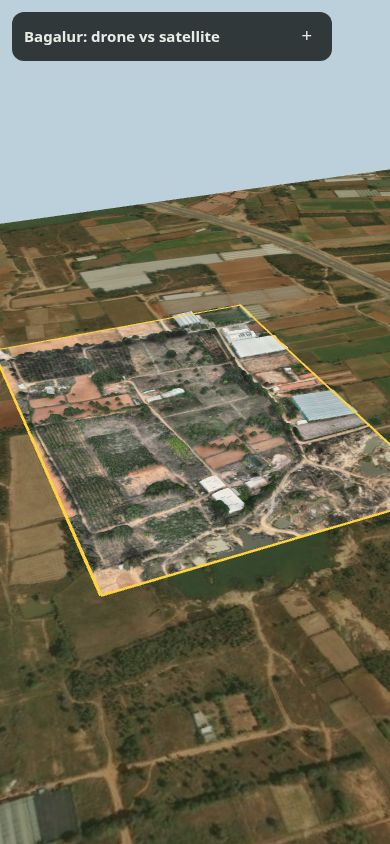
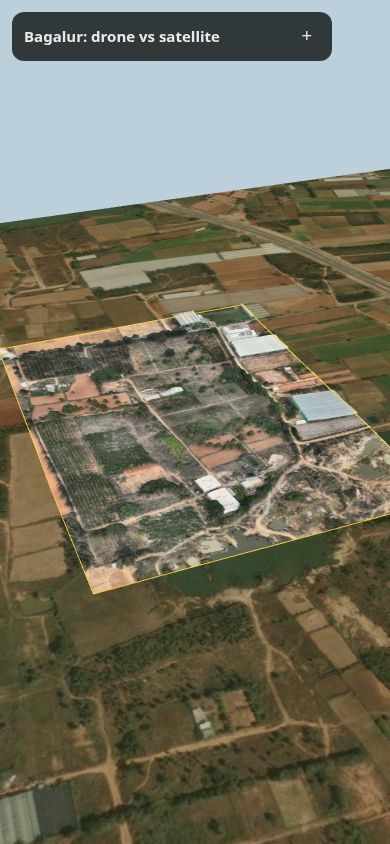
3D viewer: spline seam correction so roads meet the satellite; hairline border

diff --git a/test-data/bagalur/ai3d/web/index.html b/test-data/bagalur/ai3d/web/index.html
@@ -83,8 +83,22 @@ let mesh, geo, hts, ex = 10, sat, outline;
 const AL = await (await fetch("align.json")).json();
 const [SW, SH] = AL.sat_size, SPX = AL.sat_px_m, [DW, DH] = AL.drone_size, A = AL.A;
 // drone pixel (u,v) -> world metres (x east, z south), origin = centre of the satellite block
-const toWorld = (u, v) => [((A[0][0] * u + A[0][1] * v + A[0][2]) - SW / 2) * SPX, ((A[1][0] * u + A[1][1] * v + A[1][2]) - SH / 2) * SPX];
+const SEAM = await (await fetch("seam.json")).json();   // correction grid (satellite px) so roads meet the satellite cleanly
+function seamAt(u, v) {   // bilinear sample of the grid at drone pixel (u, v)
+  const fx = Math.min(Math.max(u / DW, 0), 1) * (SEAM.gx - 1), fy = Math.min(Math.max(v / DH, 0), 1) * (SEAM.gy - 1);
+  const x0 = Math.min(Math.floor(fx), SEAM.gx - 2), y0 = Math.min(Math.floor(fy), SEAM.gy - 2), tx = fx - x0, ty = fy - y0, d = SEAM.d;
+  const l = (k) => (d[y0][x0][k] * (1 - tx) + d[y0][x0 + 1][k] * tx) * (1 - ty) + (d[y0 + 1][x0][k] * (1 - tx) + d[y0 + 1][x0 + 1][k] * tx) * ty;
+  return [l(0), l(1)];
+}
+const toWorld = (u, v) => {
+  const [dx, dy] = seamAt(u, v);
+  const X = A[0][0] * u + A[0][1] * v + A[0][2] + dx, Y = A[1][0] * u + A[1][1] * v + A[1][2] + dy;
+  return [(X - SW / 2) * SPX, (Y - SH / 2) * SPX];
+};
 const corners = [[0, 0], [DW, 0], [DW, DH], [0, DH]].map(([u, v]) => toWorld(u, v));
+const edgePts = [];
+for (const [[au, av], [bu, bv]] of [[[0, 0], [DW, 0]], [[DW, 0], [DW, DH]], [[DW, DH], [0, DH]], [[0, DH], [0, 0]]])
+  for (let i = 0; i < 24; i++) edgePts.push(toWorld(au + (bu - au) * i / 24, av + (bv - av) * i / 24));
 const CX = corners.reduce((a, c) => a + c[0], 0) / 4, CZ = corners.reduce((a, c) => a + c[1], 0) / 4;
 
 async function build() {
@@ -117,15 +131,9 @@ async function build() {
   if (sun.shadow.mapSize.x !== sm) { sun.shadow.mapSize.set(sm, sm); sun.shadow.map?.dispose(); sun.shadow.map = null; }
   document.getElementById("hdbtn").classList.toggle("on", hd);
 }
-function addOutline() {   // yellow ribbon around the mapped area
-  const w = 1.6, pts = [];
-  for (let i = 0; i < 4; i++) {
-    const [ax, az] = corners[i], [bx, bz] = corners[(i + 1) % 4];
-    const dx = bx - ax, dz = bz - az, L = Math.hypot(dx, dz), nx = -dz / L * w, nz = dx / L * w;
-    pts.push(ax - nx, 0.8, az - nz, bx - nx, 0.8, bz - nz, bx + nx, 0.8, bz + nz, ax - nx, 0.8, az - nz, bx + nx, 0.8, bz + nz, ax + nx, 0.8, az + nz);
-  }
-  const g = new THREE.BufferGeometry(); g.setAttribute("position", new THREE.Float32BufferAttribute(pts, 3));
-  outline = new THREE.Mesh(g, new THREE.MeshBasicMaterial({ color: 0xffd23f, side: THREE.DoubleSide, fog: false, depthTest: false }));
+function addOutline() {   // 1 px yellow line around the mapped area, sharp at any zoom
+  const g = new THREE.BufferGeometry().setFromPoints(edgePts.map(([x, z]) => new THREE.Vector3(x, 0.6, z)));
+  outline = new THREE.LineLoop(g, new THREE.LineBasicMaterial({ color: 0xffd23f, fog: false, depthTest: false, transparent: true, opacity: 0.9 }));
   outline.renderOrder = 10; scene.add(outline);
 }
 function applyHeights() {

diff --git a/test-data/bagalur/ai3d/seam_refine.py b/test-data/bagalur/ai3d/seam_refine.py
@@ -1,0 +1,60 @@
+"""Local drone-vs-satellite offsets (edge phase-correlation in 80 m tiles, reaching into the edges),
+outliers rejected against a smooth quadratic, then a smoothed thin-plate spline sampled on a
+33x25 grid over the photo. The viewer adds that grid to the mesh so roads meet the satellite cleanly."""
+import cv2, numpy as np, json
+from scipy.interpolate import RBFInterpolator
+al = json.load(open("sat/align.json")); A = np.array(al["A"], np.float32)
+sat = cv2.imread("sat/sat_wide.png"); Hs, Ws = sat.shape[:2]
+drone = cv2.imread("web/tex_hd.jpg"); hd, wd = drone.shape[:2]
+def edges(im):
+    g = cv2.GaussianBlur(cv2.cvtColor(im, cv2.COLOR_BGR2GRAY).astype(np.float32), (0, 0), 1.2)
+    m = cv2.magnitude(cv2.Sobel(g, cv2.CV_32F, 1, 0), cv2.Sobel(g, cv2.CV_32F, 0, 1))
+    return m / (np.percentile(m, 99) + 1e-6)
+warp = cv2.warpAffine(drone, A, (Ws, Hs), flags=cv2.INTER_AREA)
+mask = cv2.warpAffine(np.full((hd, wd), 255, np.uint8), A, (Ws, Hs), flags=cv2.INTER_NEAREST)
+es, ed = edges(sat), edges(warp)
+T, step = 160, 50
+win = cv2.createHanningWindow((T, T), cv2.CV_32F)
+pts, offs, conf = [], [], []
+for y in range(0, Hs - T, step):
+    for x in range(0, Ws - T, step):
+        cov = (mask[y:y + T, x:x + T] > 0).mean()
+        if cov < 0.9: continue
+        m = (mask[y:y + T, x:x + T] > 0).astype(np.float32)
+        (dx, dy), r = cv2.phaseCorrelate(es[y:y + T, x:x + T] * win * m, ed[y:y + T, x:x + T] * win * m)
+        if r > 0.06 and abs(dx) < 24 and abs(dy) < 24:
+            pts.append((x + T / 2, y + T / 2)); offs.append((-dx, -dy)); conf.append(r)
+pts, offs, conf = np.array(pts), np.array(offs), np.array(conf)
+def design(p):
+    x = (p[:, 0] - Ws / 2) / Ws; y = (p[:, 1] - Hs / 2) / Hs
+    return np.stack([np.ones_like(x), x, y, x * x, x * y, y * y], 1)
+best = None; rng = np.random.default_rng(0)
+for _ in range(4000):
+    idx = rng.choice(len(pts), 8, replace=False)
+    c, *_ = np.linalg.lstsq(design(pts[idx]), offs[idx], rcond=None)
+    inl = np.hypot(*(design(pts) @ c - offs).T) < 4.0
+    if best is None or inl.sum() > best[1].sum(): best = (c, inl)
+inl = best[1]
+print(f"{len(pts)} tiles, {inl.sum()} consistent; raw offsets median {np.median(np.hypot(*offs[inl].T))*0.5:.2f} m, max {np.hypot(*offs[inl].T).max()*0.5:.2f} m")
+tps = RBFInterpolator(pts[inl], offs[inl], kernel="thin_plate_spline", smoothing=10000.0, degree=1)
+res = np.hypot(*(tps(pts[inl]) - offs[inl]).T) * 0.5
+print(f"spline residual median {np.median(res):.2f} m, 90% {np.percentile(res, 90):.2f} m")
+# sample the correction on a grid over the photo (drone uv), in satellite pixels
+GX, GY = 33, 25
+uu, vv = np.meshgrid(np.linspace(0, wd, GX), np.linspace(0, hd, GY))
+P = np.stack([uu.ravel(), vv.ravel()], 1) @ A[:, :2].T + A[:, 2]
+G = tps(P).reshape(GY, GX, 2)
+json.dump({"gx": GX, "gy": GY, "d": np.round(G, 2).tolist(), "note": "sat-px offset at drone uv grid (u: 0..W, v: 0..H)"}, open("web/seam.json", "w"))
+# check image: corrected drone over satellite, zooms at the four edges
+dense = RBFInterpolator(pts[inl], offs[inl], kernel="thin_plate_spline", smoothing=10000.0, degree=1)
+x0, y0, bw, bh = cv2.boundingRect(mask)
+ys, xs = np.mgrid[y0 - 60:y0 + bh + 60:4, x0 - 60:x0 + bw + 60:4]
+D = dense(np.stack([xs.ravel(), ys.ravel()], 1)).reshape(ys.shape + (2,)).astype(np.float32)
+Dfull = cv2.resize(D, (xs.shape[1] * 4, xs.shape[0] * 4), interpolation=cv2.INTER_LINEAR)
+H2, W2 = Dfull.shape[:2]
+gy, gx = np.mgrid[y0 - 60:y0 - 60 + H2, x0 - 60:x0 - 60 + W2].astype(np.float32)
+mx, my = gx - Dfull[..., 0], gy - Dfull[..., 1]
+w2 = cv2.remap(warp, mx, my, cv2.INTER_LINEAR); m2 = cv2.remap(mask, mx, my, cv2.INTER_NEAREST)
+crop = sat[y0 - 60:y0 - 60 + H2, x0 - 60:x0 - 60 + W2].copy(); crop[m2 > 0] = w2[m2 > 0]
+cnt, _ = cv2.findContours(m2, cv2.RETR_EXTERNAL, cv2.CHAIN_APPROX_SIMPLE); cv2.drawContours(crop, cnt, -1, (0, 210, 255), 1)
+cv2.imwrite("sat/seam_after_tps.jpg", crop, [cv2.IMWRITE_JPEG_QUALITY, 88])

diff --git a/README.md b/README.md
@@ -89,7 +89,7 @@ The share links are view-only. The WebODM dashboard at the same host still needs
 
 Depth Anything V2 (Large, run locally on the RTX 3070) estimates a height for every pixel of DJI_0995 (350 m, straight down). The large-scale tilt the model adds is removed. The result is draped with the photo in a three.js viewer: orbit, zoom, change the height and the sun.
 
-The photo sits at its true position inside a 2 × 1.5 km block of Esri satellite imagery, outlined in yellow, so the extra detail from the drone (6 cm/px vs about 50 cm/px) is obvious. Placement: DJI_0995 is SIFT-matched to DJI_0001 (already aligned to the satellite), with 1,060 inlier points and a median error of 0.8 m (`align_to_0001.py`). **Wide** shows the whole block.
+The photo sits at its true position inside a 2 × 1.5 km block of Esri satellite imagery, outlined in yellow, so the extra detail from the drone (6 cm/px vs about 50 cm/px) is obvious. Placement: DJI_0995 is SIFT-matched to DJI_0001 (already aligned to the satellite), with 1,060 inlier points and a median error of 0.8 m (`align_to_0001.py`). On top of that, `seam_refine.py` measures the local drone-vs-satellite offset in 75 tiles of 80 m (2.4 m typical, up to 7.4 m, from lens distortion and the camera tilt) and fits a smoothed spline. The viewer applies that spline as a correction grid, so roads run straight across the border: about 0.8 m typical error on held-out tiles. The border is a 1 px line. **Wide** shows the whole block.
 
 <img src="docs/img/ai3d_drone_vs_satellite_wide.jpg" width="820">
 
